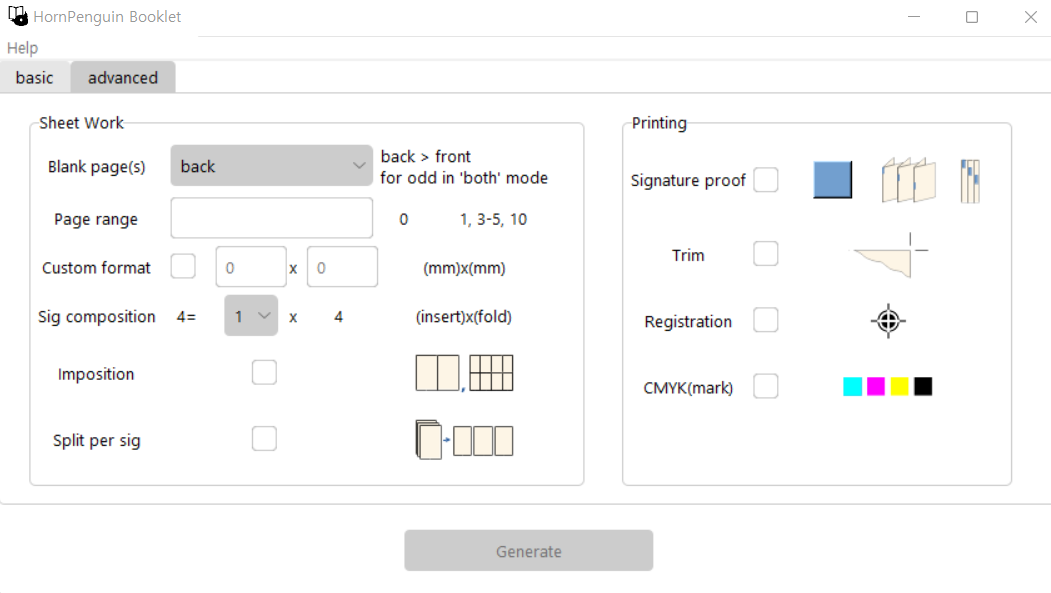
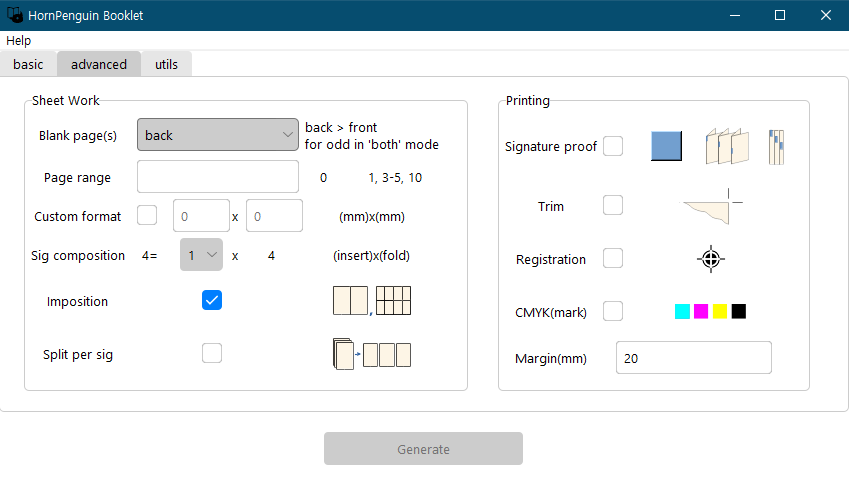
add images to docs

diff --git a/booklet/main.py b/booklet/main.py
@@ -31,12 +31,12 @@
 # OF THIS SOFTWARE, EVEN IF ADVISED OF THE POSSIBILITY OF SUCH DAMAGE.
 
 from __future__ import annotations
+import sys, os
+sys.path.insert(0, os.path.abspath("."))
+
 from booklet.meta import __version__ as __version__
 from booklet.meta import name
 
-import sys, os
-
-sys.path.insert(0, os.path.abspath("."))
 import PyPDF2 as pypdf
 from PIL import Image
 

diff --git a/documents/user/usage.rst b/documents/user/usage.rst
@@ -44,12 +44,12 @@ You can modify it, but be aware that it does not check the existence of the give
 If there is a same file in the output path, it will be overwritten by the new file. 
 
 
-Leaves
+Pages
 """"""""""""""""""
 
 .. image:: ../_static/output_setting002.png
 
-*Leaves* is a number of sheets per each signatures. 
+*Pages* is a number of pages per each signatures. 
 When you choose specific number of sheets, additional blank pages will be shown right to selection box.
 In this case, manuscript file has 32 pages, so it will be 0 for 4, 8, 16, 32 number of sheets.
 In the list of sheet numbers, you can see some numbers have a subfix :code:`f`.
@@ -215,6 +215,9 @@ Click `Generation` button, progress will be run in behind and program will be de
 Utils
 ------------
 
+.. image:: ../_static/utils_ui.png
+
+
 This tab supports miscellaneous utils; note mode, conversion to image, and custom imposition.
 Note mode is in developing state, it will not work in 0.0.2 version.
 
@@ -222,39 +225,39 @@ Note mode is in developing state, it will not work in 0.0.2 version.
 
   Note mode
   """"""""""""""""""""""""""
-  
+
   This routine is presented for note maker. 
   However, :code:`basic, advanced` routines don't repeat the given pdf pages so you need to expand them using addtional program.
-  
+
   This mode expands the given pdf to note type manuscript.
   For instance, below tutorial shows making process of laboratory note.
   The template is presented in template directory on project root directory. 
-  
+
   Basic usage is just enable the note mode and enter a total number of pages of note.
   In this tutorial, HP Booklet will generate 200 pages note.
-  
+
   .. 
     .. image::
-    
+
   Some notes need page numbering, expecially laboratory note.
   As like note mode, you can disable or enable the numbering routine.
   It allows you to set next options.
-  
+
   * Location: Header/Footer
   * Align: Left/Center/right
   * Count: Even/Odd/Both/Even only/Odd only
-  
+
   The count options may be confuse if you see at first. 
   This represent the counted pages and number indicated pages.
-  
+
   Even: count full pages and indicate it only on even pages.
   Even(only): count only even pages and indicate it only on even pages.
-  
+
   It will be enough to show an example.
-  
+
   .. 
     .. image:: 
-    
+
 
 Command line
 -------------
